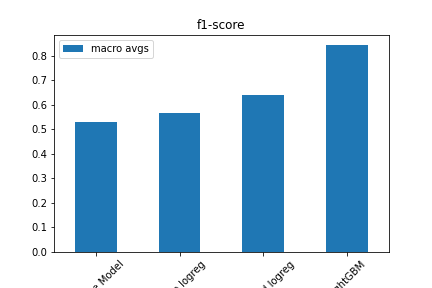
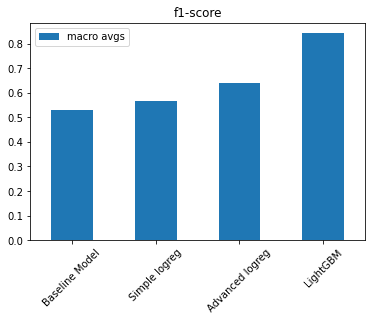
added bbox inches tight to eval plot

Changed region(s): [[0.0, 0.0, 1.0, 1.0]]

diff --git a/src/utils/evaluation.py b/src/utils/evaluation.py
@@ -108,7 +108,7 @@ class ModelEvaluator:
         plt.xticks(rotation=45)
         #plt.legend(title='class')
         if savepath:
-            plt.savefig(savepath)
+            plt.savefig(savepath, bbox_inches='tight')
         plt.show()
 
 
